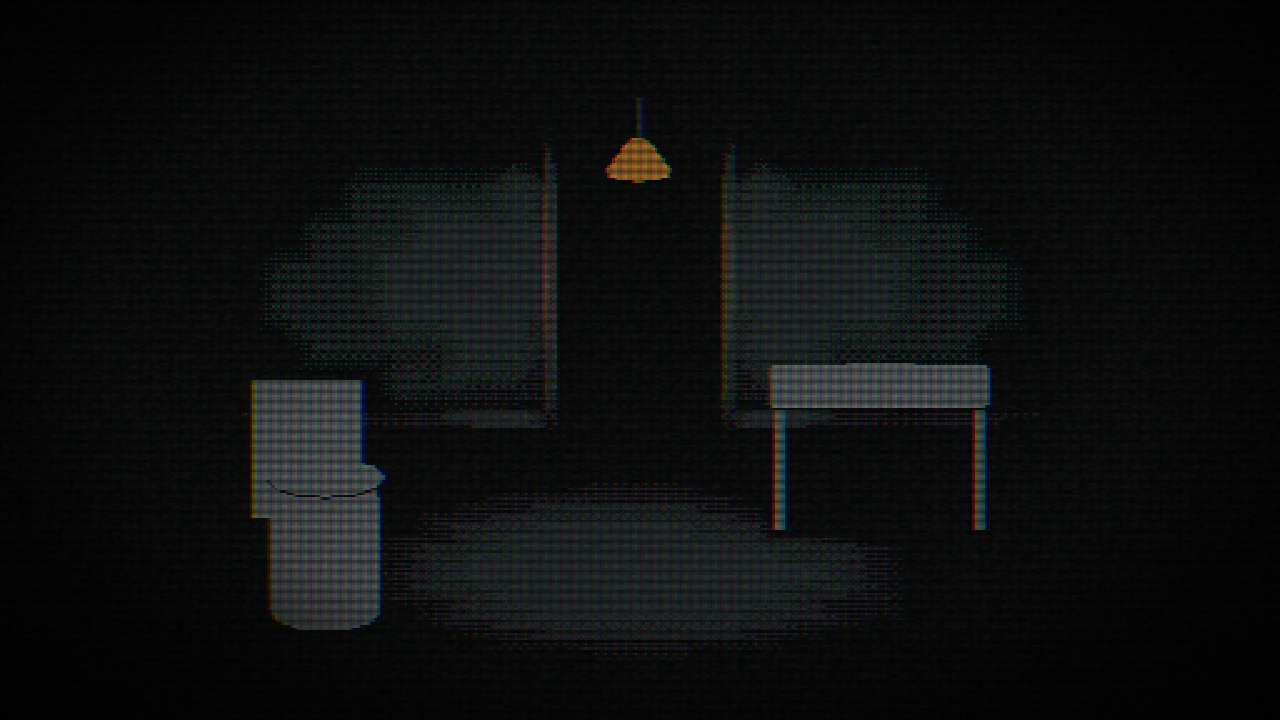
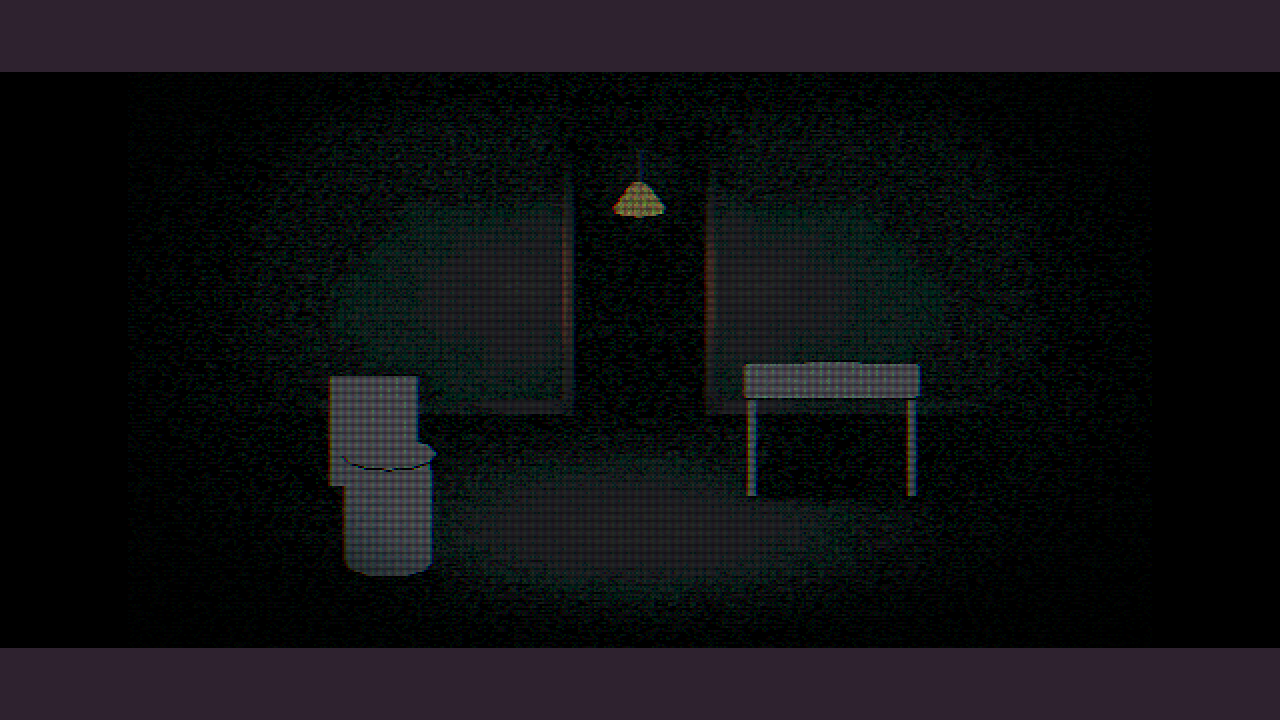
feat(retro-crisp): the retro grade runs before the DUEL snap; the LCD panel's README says why it stays after
Claude-Session: https://claude.ai/code/session_01HNdX7KMP94BUPprTZax6Sh

diff --git a/extensions/retro-crisp/tests/browser/retro-pass.test.ts b/extensions/retro-crisp/tests/browser/retro-pass.test.ts
@@ -74,11 +74,11 @@ describe.runIf(hasWebGL2)('the retro pass on WebGL2', () => {
     expect(DUEL.has(cube.colour)).toBe(true)
   })
 
-  it('goes after core’s snap, and a taken name is refused', async () => {
+  it('goes before core’s snap, and a taken name is refused', async () => {
     passes = addRetroPass({ profile: RETRO_NEUTRAL })
     expect(() => addRetroPass()).toThrow()
     const renderer = await start()
-    expect(renderer.view.passes.map((p) => p.constructor.name)).toEqual(['DuelSnapEffect', 'RetroEffect'])
+    expect(renderer.view.passes.map((p) => p.constructor.name)).toEqual(['RetroEffect', 'DuelSnapEffect'])
     expect(passes.passes).toHaveLength(1)
   })
 
@@ -89,14 +89,17 @@ describe.runIf(hasWebGL2)('the retro pass on WebGL2', () => {
     expect(diff).toEqual([])
   })
 
-  it('the clinic profile grades the frame off the palette, and off puts the frame back', async () => {
+  it('the clinic profile grades the frame and the snap puts every colour back on the palette; off puts the frame back', async () => {
     const renderer = await start()
     const retro = retroOf(renderer)
     retro.profile = {}
     const graded = shot(renderer)
     const moved = drawn(bare, graded)
     expect(moved.length).toBeGreaterThan(200)
-    expect(moved.some((i) => !DUEL.has(colourAt(graded, i)))).toBe(true)
+    // What the scene drew is on the palette again. (The empty sky shows the page's fill, which this test does not judge.)
+    const content = moved.filter((i) => colourAt(bare, i) !== 0 && colourAt(bare, i) !== SKY)
+    expect(content.length).toBeGreaterThan(100)
+    expect(content.every((i) => DUEL.has(colourAt(graded, i)))).toBe(true)
     retro.enabled = false
     expect(drawn(bare, shot(renderer))).toEqual([])
   })

diff --git a/examples/3d/retrocrisp/retrocrisp-grade.ts b/examples/3d/retrocrisp/retrocrisp-grade.ts
@@ -1,8 +1,8 @@
 // retrocrisp-grade: a room graded and faded like old film, with the retro pass on and off
 //
 // Shows: the retro look (`@automata/retro-crisp`): the clinic's cold green grade, an unsharp mask, a vignette, and a film
-//   fade (black lifted toward a tint, moving grain, dust and a scratch). The pass runs after core's DUEL snap, so a
-//   `RETRO_NEUTRAL` profile changes no colour at all. The crisp half: the field drawn at a whole number of device pixels
+//   fade (black lifted toward a tint, moving grain, dust and a scratch). The pass runs before core's DUEL snap, so its
+//   colours are snapped to the palette, and a `RETRO_NEUTRAL` profile changes no colour at all. The crisp half: the field drawn at a whole number of device pixels
 //   (core's letterbox `scale: 'whole'`, on by default; `?scale=fit` is the fractional fit to compare) and the LCD panel's
 //   colour split snapped to whole pixels (`?crisp=lcd`). `?pref=webgpu` draws on WebGPU, `?retro=0` starts with the pass off.
 // Controls: R switches the retro pass on and off
@@ -27,7 +27,7 @@ import { crispFromQuery, crispRendererOptions } from '@automata/retro-crisp'
 import { addRetroPass } from '@automata/retro-crisp/pass'
 
 // --- look ---
-// The retro pass first, then the panel over it (passes run in the order they were added).
+// The retro pass runs before the snap, the panel after it, whatever order they are added in.
 const query = new URLSearchParams(location.search)
 const crisp = crispFromQuery(location.search)
 const retro = addRetroPass({ enabled: query.get('retro') !== '0' })

diff --git a/extensions/retro-crisp/src/app/add-retro.ts b/extensions/retro-crisp/src/app/add-retro.ts
@@ -1,5 +1,6 @@
-// Adds the retro pass to core's look: call it once, before the renderer is created. Passes run in the order they were
-// added, after core's, so add it before the LCD panel. A name already taken is refused by core (`RegistryClash`).
+// Adds the retro pass to core's look: call it once, before the renderer is created. It runs before core's DUEL snap, so
+// the colours it grades, fades and grains are snapped to the palette (the final frame is DUEL, as the look's rule is). A name
+// already taken is refused by core (`RegistryClash`).
 
 import { addLookPass } from '@automata/3d'
 import { Ticker } from 'pixi.js'
@@ -21,6 +22,7 @@ export function addRetroPass(options: RetroOptions = {}): { readonly passes: rea
   const made: RetroEffect[] = []
   addLookPass({
     name: RETRO_PASS,
+    beforeSnap: true,
     make: () => {
       const pass = new RetroEffect(profile, { enabled: options.enabled ?? true })
       made.push(pass)

diff --git a/extensions/retro-crisp/src/features/retro/retro-shader.ts b/extensions/retro-crisp/src/features/retro/retro-shader.ts
@@ -1,7 +1,7 @@
 // The retro pass as a post effect's fragment, in GLSL and WGSL (WebGL2 stays at parity with WebGPU, ADR 0002): unsharp
 // mask, the grade, the vignette, the film fade, then the ordered-dither quantise when the profile asks. The maths is
-// retro-colour.ts's; the uniform names are `RETRO_UNIFORMS` (retro-uniforms.ts). The pass runs after the look's DUEL
-// snap, so with `RETRO_NEUTRAL` an exact DUEL colour comes out as it went in.
+// retro-colour.ts's; the uniform names are `RETRO_UNIFORMS` (retro-uniforms.ts). The pass runs before the look's DUEL
+// snap, so what it does is snapped to the palette, and with `RETRO_NEUTRAL` an exact DUEL colour comes out as it went in.
 
 export const RETRO_GLSL = `
 const vec3 LUMA = vec3(0.2126, 0.7152, 0.0722);

diff --git a/extensions/lcd-panel/src/app/add-lcd-panel.ts b/extensions/lcd-panel/src/app/add-lcd-panel.ts
@@ -1,5 +1,6 @@
 // Adds the LCD panel to core's look: call it once, before the renderer is created, after any pass the panel should sit on
-// top of (passes run in the order they were added, after core's). A name already taken is refused by core (`RegistryClash`).
+// top of. Passes without `beforeSnap` run in the order they were added, after core's snap; the panel simulates the display,
+// so its output is not on the palette. A name already taken is refused by core (`RegistryClash`).
 
 import { addLookPass } from '@automata/3d'
 import { LcdPanelEffect } from '../features/lcd-panel/lcd-effect.ts'

diff --git a/extensions/retro-crisp/src/features/retro/retro-profile.schema.ts b/extensions/retro-crisp/src/features/retro/retro-profile.schema.ts
@@ -1,6 +1,6 @@
 // The retro pass's settings: a colour grade, an unsharp mask, a vignette, a film fade (black lifted toward a tint, grain,
 // dust and a scratch) and, for a look with no palette snap, an ordered-dither quantise. One profile, Zod-checked, with the
-// clinic's numbers as the defaults. The look's own DUEL snap and its dither stay core's; this pass runs after them.
+// clinic's numbers as the defaults. The look's own DUEL snap and its dither stay core's; this pass runs before them, so its colours are snapped.
 
 import { z } from 'zod'
 

diff --git a/docs/refactor/tll-extensions/README.md b/docs/refactor/tll-extensions/README.md
@@ -16,10 +16,13 @@ Nothing was copied. The LCD mesh is a port of `lcd-perfect` (MIT, sinedied) and 
 
 ## Decisions
 
-- **Passes are `PostEffect`s on core's look.** They run after the DUEL snap, in the order added. The retro pass therefore grades
-  colours already on the palette; the source's palette LUT and luma-weighted 8 x 8 dither stay core's snap (the retro profile's
-  optional `quantise` is the source's no-palette branch). The look sessions' files (world view, vertex bake, the DUEL snap,
-  bloom) are untouched.
+- **Passes are `PostEffect`s on core's look.** The retro grade runs **before** the DUEL snap (the coordinator's rule: the final
+  snap is DUEL, as the haze runs before it), so its graded, faded and grained colours are snapped to the palette. That needed a
+  small core hook: `LookPass.beforeSnap` (`createLookPasses` returns `early` beside `extra`; a pass without it runs where it
+  always did). The LCD panel runs after the snap and its output is off the palette on purpose: it simulates the display, as the
+  source game's LCD does (its README says so). The source's palette LUT and luma-weighted 8 x 8 dither stay core's snap (the
+  retro profile's optional `quantise` is the source's no-palette branch). The look sessions' files (world view, vertex bake, the
+  DUEL snap, bloom) are untouched; only the pass registry `look-pass.ts` gained the option.
 - **An exact DUEL colour passes unchanged** with `RETRO_NEUTRAL` and with the LCD panel zeroed and its vignette off: proved on the
   CPU (retro) and on a WebGL2 frame for both (`tests/browser/*-pass.test.ts`). The neutral grade is blended in at 0, because a grade
   at its identity values still rounds a channel by a unit in the last place.
@@ -57,6 +60,7 @@ is Chromium's note that the WebGPU canvas uses a different format than the devic
 
 Measured on the crisp pair (runs of equal pixels along the middle 40 rows): the whole-pixel frame is runs of 2 and 4 device
 pixels (7430 and 154 runs); the fractional fit is runs of 3 and 2 (5852 and 1336), so some field pixels are drawn a third wider
-than others. WebGL and WebGPU give the same counts. By eye, WebGL and WebGPU match in every pair. The rooms are flat floors under a plain orthographic camera, since the example is about
+than others. WebGL and WebGPU give the same counts. The example's field is 512 x 320. The `retro-*` frames use the whole-pixel scale (2, a border round the field) and the `lcd-*` frames
+the core default, the fit (2.5, so uneven pixels at 1280 wide); the retro grade is before the snap in every `retro-*` frame. By eye, WebGL and WebGPU match in every pair. The rooms are flat floors under a plain orthographic camera, since the example is about
 which rooms draw; the lit base interior in the other two is dim by its own baked lamp. The black between rooms is the background
 and the walls that face away from the camera.

diff --git a/docs/refactor/progress.md b/docs/refactor/progress.md
@@ -780,5 +780,6 @@ screenshots and what is open are in [tll-extensions](tll-extensions/README.md).
 | `@automata/retro-crisp`: the retro post pass, the crisp maths | Done: grade, unsharp, vignette, film fade, optional Bayer quantise, `RETRO_NEUTRAL` passes an exact DUEL colour unchanged (CPU and WebGL2); crisp: `letterboxScale`, `snapRatio`, `figureSnap`, the profile and canvas layout | `extensions/retro-crisp/tests/`, `examples/3d/retrocrisp/` |
 | Screenshots, on and off, WebGL and WebGPU | Done for every state of the three examples (headless Chromium on SwiftShader, the eb-look flags) | [tll-extensions](tll-extensions/README.md) |
 | Core hook: letterbox `scale: 'whole'` | Done, 2026-11-11, at the coordinator's word: an opt-in option (default `'fit'`, every existing frame and test unchanged) on `LetterboxFrame` and `createPixiRenderer`, which `createPixi3dRenderer` passes on; `crispRendererOptions` turns the crisp profile into it. Measured: whole-pixel runs of 2 and 4 device pixels against 3 and 2 for the fit, both backends | `packages/automata/tests/unit/render/`, `.changeset/letterbox-whole-pixel-scale.md` |
-| Open | The retro pass runs after core's DUEL snap, so the source's palette-LUT dither stays core's | |
+| Retro before the DUEL snap | Done, 2026-11-11, at the coordinator's word: `LookPass.beforeSnap` in core's look registry (test first; a pass without it runs where it did), `addRetroPass` uses it; the LCD panel stays after the snap and its README says why. Browser test: the graded content is on the palette | `packages/3d/tests/unit/look/look.test.ts`, `extensions/retro-crisp/tests/browser/` |
+| Open | The source's palette-LUT dither stays core's snap | |
 | Gates | See the PR description for what ran and what is pending | |

diff --git a/extensions/retro-crisp/README.md b/extensions/retro-crisp/README.md
@@ -4,8 +4,9 @@ Two small things that make AF's pixel-art look read like old hardware.
 
 **Retro** is a post pass: an unsharp mask, a colour grade (warmth, tint, contrast, saturation, vibrance, black crush), a
 vignette, and a film fade that lifts black toward a tint, settles white, and adds moving grain, dust and the odd scratch.
-It runs after core's DUEL snap, so it grades colours that are already on the palette. A neutral profile
-(`RETRO_NEUTRAL`) changes nothing: an exact DUEL colour comes out as it went in.
+It runs **before** core's DUEL snap (`addLookPass` with `beforeSnap`), as the look's haze does, so the colours it grades,
+fades and grains are snapped to the palette: the final frame is DUEL. A neutral profile (`RETRO_NEUTRAL`) changes nothing: an
+exact DUEL colour comes out as it went in, and the snap leaves it there.
 
 **Crisp** is how the picture reaches the screen without a pixel being smeared or drawn at an uneven width: the maths for
 a whole-number scale of the field (`letterboxScale`), for billboards whose texels land on whole field pixels
@@ -16,7 +17,8 @@ because it builds on `@automata/3d`.
 
 ## Turn the retro pass on
 
-Add it once, before the renderer is made, and before the LCD panel so the panel sits on top:
+Add it once, before the renderer is made. It takes its place ahead of the snap whatever order the passes were added in; the
+LCD panel runs after the snap, so it sits on top:
 
 ```ts
 import { addRetroPass } from '@automata/retro-crisp/pass'

diff --git a/extensions/lcd-panel/README.md b/extensions/lcd-panel/README.md
@@ -4,13 +4,18 @@ The look of a small LCD screen, as one pass over the pixel-art look: a mesh of r
 scanlines, a little glow round bright pixels (halation), a slight colour split at the edges and a vignette round the
 frame. It is a post pass, so it draws the same on WebGL2 and on WebGPU, and a settings profile says how strong each part is.
 
+**It runs after core's DUEL snap, and its output is not on the palette, on purpose.** The panel simulates the display, not the
+scene: the stripes, the glow and the colour split are what a screen does to the picture it is given, as the source game's LCD
+does. Everything that belongs to the picture (a colour grade, say) goes before the snap, as the
+[retro pass](../retro-crisp/README.md) does.
+
 It is free and MIT licensed. It is optional: a game that does not add it loses nothing. It is not published to npm yet,
 because it builds on `@automata/3d`.
 
 ## Turn it on
 
-Add the pass once, before the renderer is made. Passes run in the order they were added, after core's, so add the panel
-last if it should sit on top of the others (the retro pass, stars, glow).
+Add the pass once, before the renderer is made. Passes run in the order they were added, after core's snap, so add the panel
+last if it should sit on top of the other passes that follow the snap (stars, glow).
 
 ```ts
 import { addLcdPanelPass } from '@automata/lcd-panel/pass'
